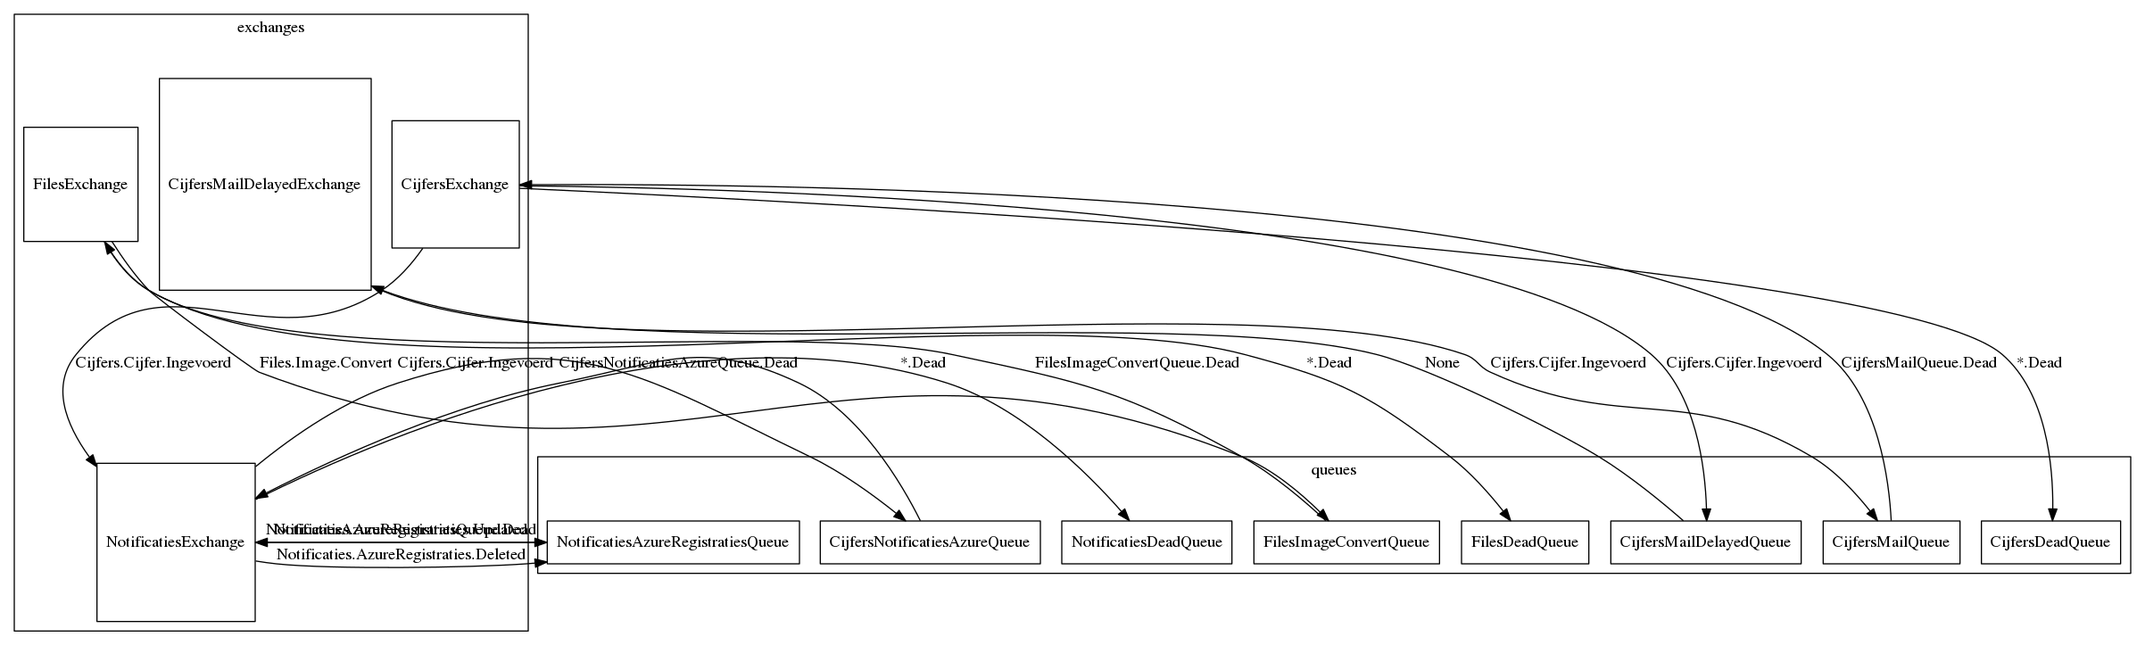
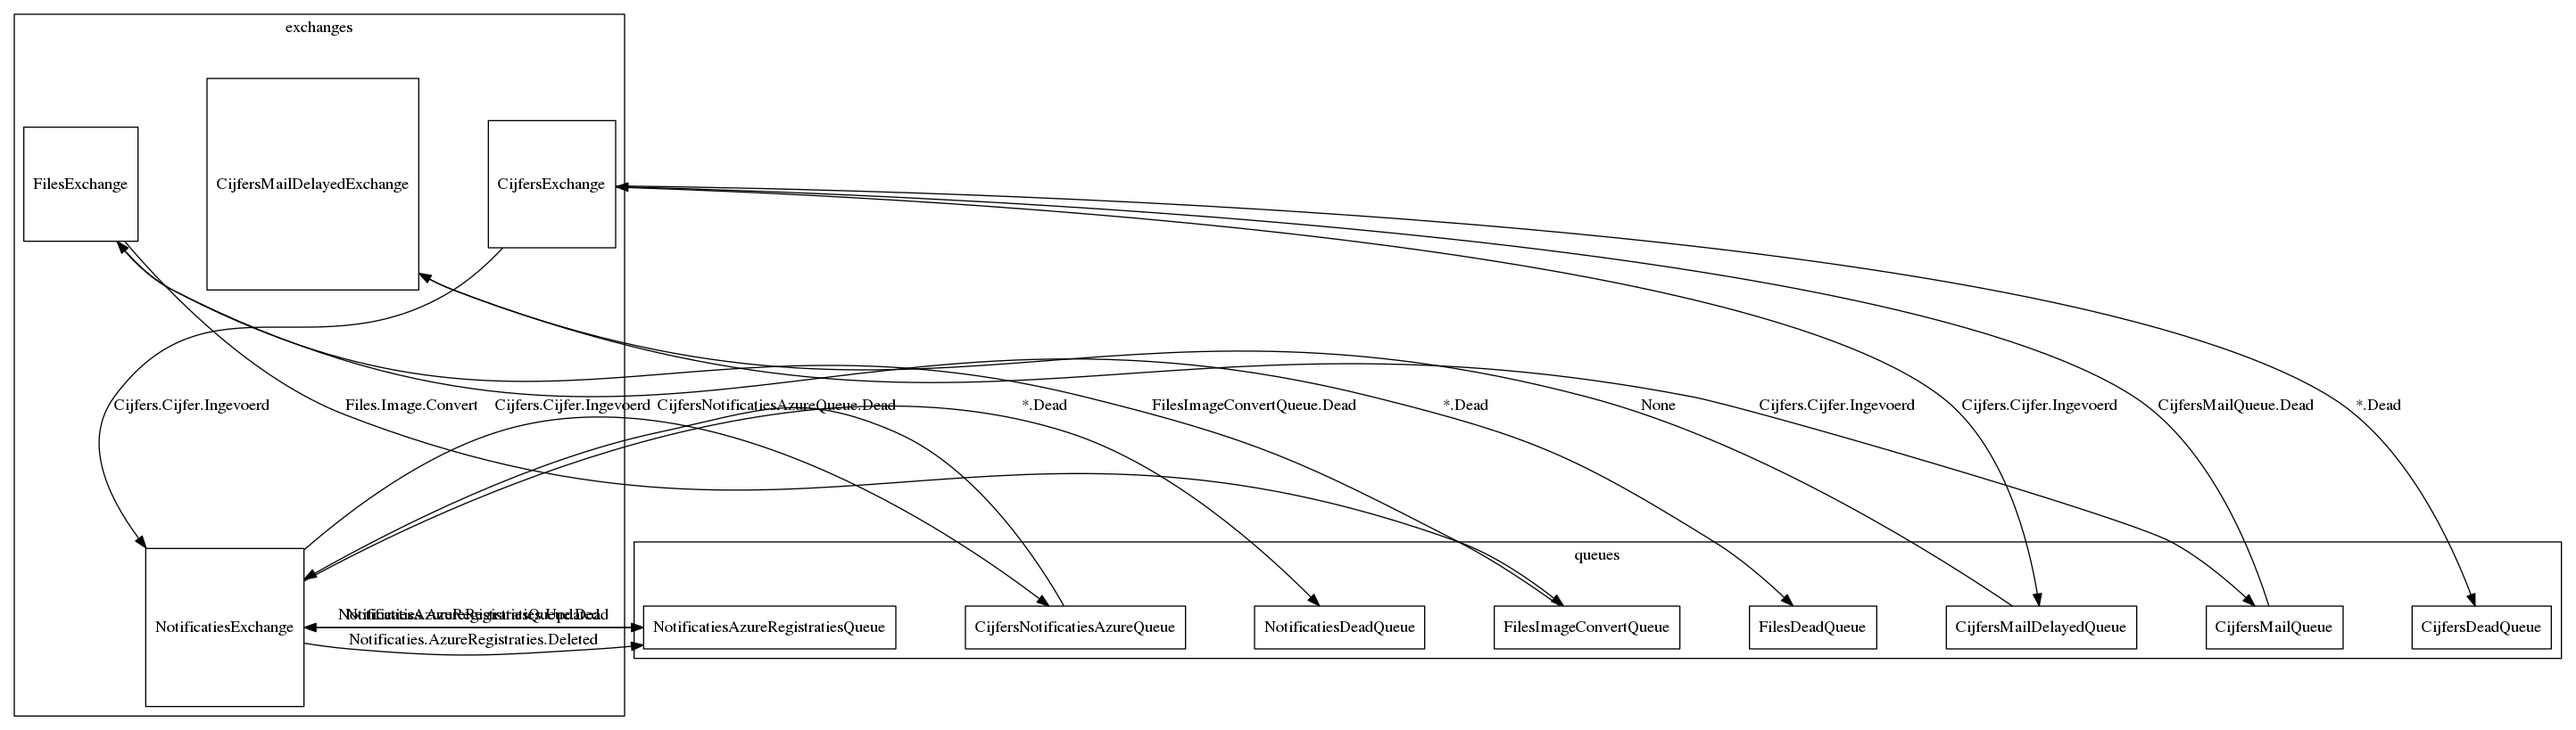
grouping

diff --git a/app/generator.py b/app/generator.py
@@ -24,7 +24,8 @@ def gen():
     broker = Broker(json.loads(args.infile.read()))
 
     # Create graph
-    graph = pgv.AGraph(directed=True, strict=False, clusterrank='local', ranksep='1.5 equally') # , rankdir='lr'
+    graph = pgv.AGraph(directed=True, strict=False, rankdir='TB',
+                       ratio='auto', nodesep='0.8 equally', ranksep='2.5 equally')
     exchanges = [exchange.name for exchange in broker.exchanges()]
     queues = [queue.name for queue in broker.queues()]
 
@@ -35,12 +36,13 @@ def gen():
         graph.add_node(queue, shape='rectangle')
 
     for binding in broker.bindings():
-        graph.add_edge(binding.source, binding.destination, label=binding.routing_key)
+        graph.add_edge(binding.source, binding.destination, label=binding.routing_key,
+                       group=binding.source)
 
     for policy in broker.policies():
         if policy.pattern is not None and policy.definition.dead_letter_exchange is not None:
             graph.add_edge(policy.pattern, policy.definition.dead_letter_exchange,
-                           label=policy.definition.dead_letter_routing_key)
+                           label=policy.definition.dead_letter_routing_key, group=policy.pattern)
 
     # Sub graphs
     graph.add_subgraph(exchanges, 'cluster_exchanges', label='exchanges')
